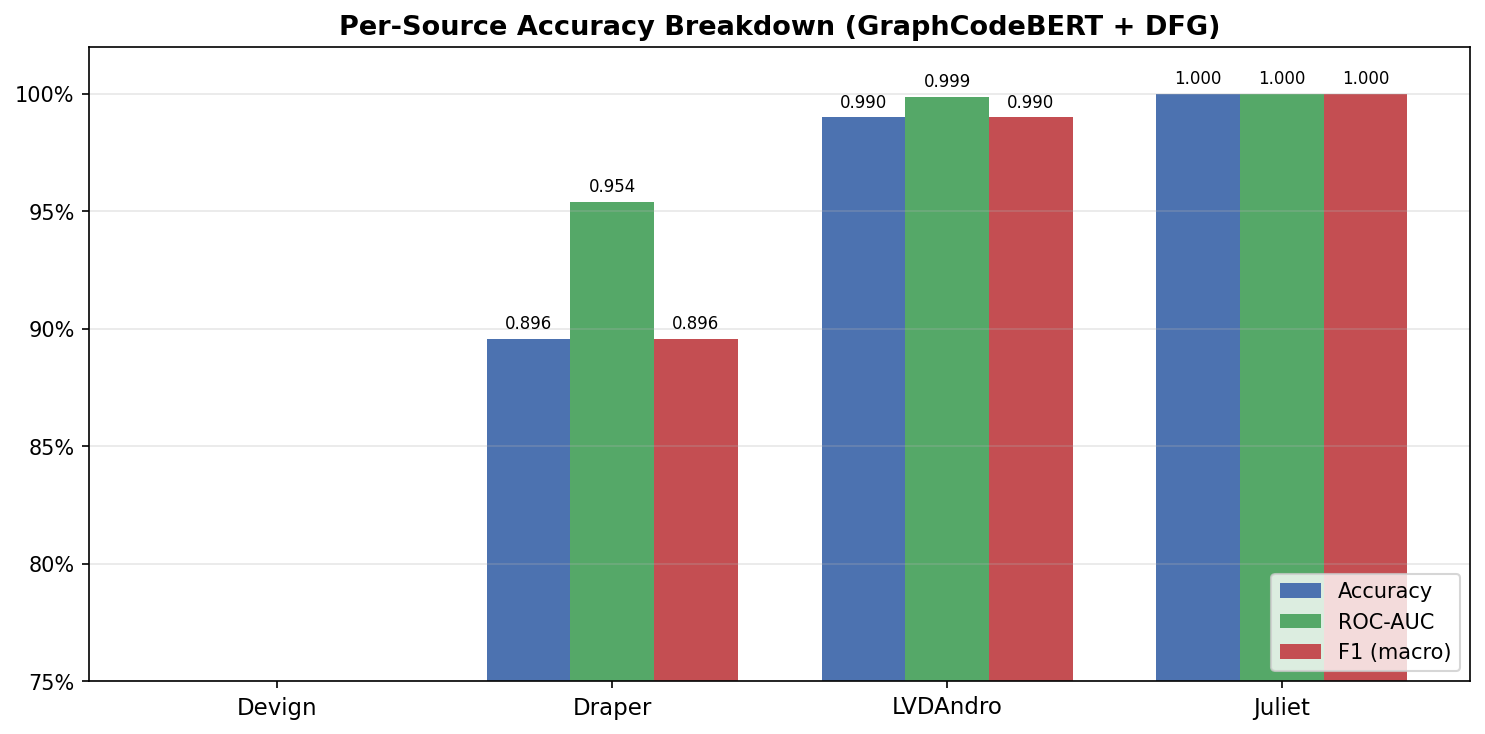
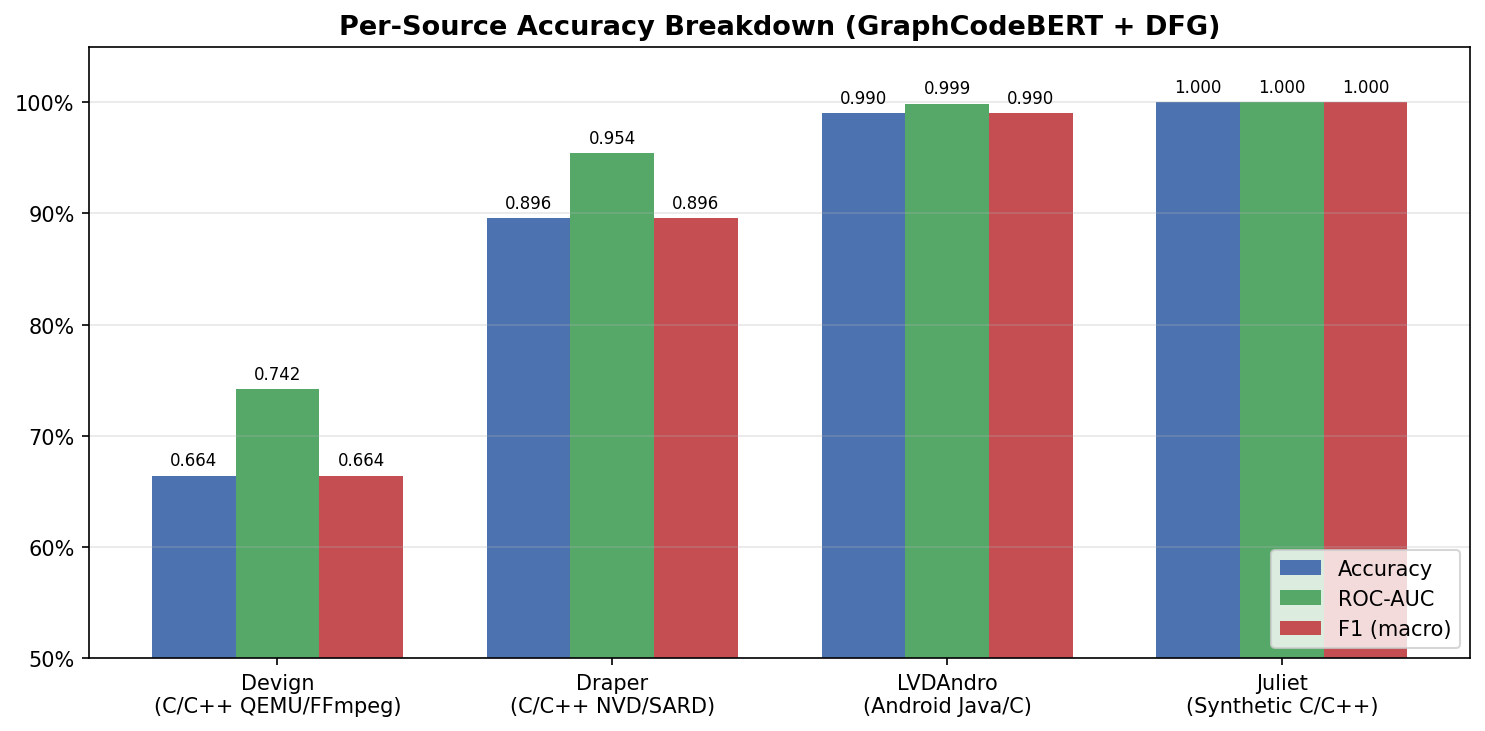
docs: Magnify Y-axis limits on Test 5 and Test 6 bar charts for readability

diff --git a/replot_bars.py b/replot_bars.py
@@ -1,0 +1,80 @@
+import matplotlib.pyplot as plt
+import matplotlib.ticker as mticker
+import numpy as np
+import os
+
+os.makedirs('results', exist_ok=True)
+
+# ------------------------------------------------------------------
+# 1. Replot Test 5: Per-Source
+# ------------------------------------------------------------------
+sources = ['Devign', 'Draper', 'LVDAndro', 'Juliet']
+accs = [0.664274, 0.895670, 0.990083, 1.000000]
+aucs = [0.7417, 0.9541, 0.9988, 1.0000]
+f1s  = [0.6643, 0.8957, 0.9901, 1.0000]
+
+x = np.arange(len(sources))
+width = 0.25
+colors = ['#4C72B0', '#55A868', '#C44E52']
+
+fig, ax = plt.subplots(figsize=(10, 5))
+b1 = ax.bar(x - width, accs, width, label='Accuracy', color=colors[0])
+b2 = ax.bar(x,         aucs, width, label='ROC-AUC',  color=colors[1])
+b3 = ax.bar(x + width, f1s,  width, label='F1 (macro)',color=colors[2])
+
+for bar in [b1, b2, b3]:
+    for rect in bar:
+        h = rect.get_height()
+        ax.annotate(f'{h:.3f}',
+                    xy=(rect.get_x() + rect.get_width() / 2, h),
+                    xytext=(0, 3), textcoords='offset points',
+                    ha='center', va='bottom', fontsize=8)
+
+ax.set_xticks(x)
+ax.set_xticklabels(['Devign\n(C/C++ QEMU/FFmpeg)', 'Draper\n(C/C++ NVD/SARD)', 'LVDAndro\n(Android Java/C)', 'Juliet\n(Synthetic C/C++)'], fontsize=10)
+ax.set_ylim(0.50, 1.05) # Adjusted scale so Devign (0.66) is totally visible but differences are still clear
+ax.yaxis.set_major_formatter(mticker.PercentFormatter(xmax=1, decimals=0))
+ax.set_title('Per-Source Accuracy Breakdown (GraphCodeBERT + DFG)', fontsize=13, fontweight='bold')
+ax.legend(loc='lower right')
+ax.grid(axis='y', alpha=0.3)
+
+plt.tight_layout()
+plt.savefig('results/test5_per_source_bar.png', dpi=150, bbox_inches='tight')
+plt.close()
+
+# ------------------------------------------------------------------
+# 2. Replot Test 6: Baseline Comparison
+# ------------------------------------------------------------------
+models = ['LR + TF-IDF', 'MLP + TF-IDF', 'GraphCodeBERT + DFG']
+accs_6 = [0.842719, 0.855321, 0.918200]
+aucs_6 = [0.9275, 0.9398, 0.9798]
+f1s_6  = [0.8405, 0.8554, 0.9182]
+
+x_6 = np.arange(len(models))
+
+fig2, ax2 = plt.subplots(figsize=(8, 5))
+b1_6 = ax2.bar(x_6 - width, accs_6, width, label='Accuracy', color=colors[0])
+b2_6 = ax2.bar(x_6,         aucs_6, width, label='ROC-AUC',  color=colors[1])
+b3_6 = ax2.bar(x_6 + width, f1s_6,  width, label='F1 (macro)',color=colors[2])
+
+for bar in [b1_6, b2_6, b3_6]:
+    for rect in bar:
+        h = rect.get_height()
+        ax2.annotate(f'{h:.3f}',
+                    xy=(rect.get_x() + rect.get_width() / 2, h),
+                    xytext=(0, 3), textcoords='offset points',
+                    ha='center', va='bottom', fontsize=9)
+
+ax2.set_xticks(x_6)
+ax2.set_xticklabels(models, fontsize=11)
+ax2.set_ylim(0.70, 1.02) # Adjusted scale to strongly magnify differences among 0.84-0.97
+ax2.yaxis.set_major_formatter(mticker.PercentFormatter(xmax=1, decimals=0))
+ax2.set_title('Baseline Model Comparison (Lower Bound Test)', fontsize=13, fontweight='bold')
+ax2.legend(loc='lower right')
+ax2.grid(axis='y', alpha=0.3)
+
+plt.tight_layout()
+plt.savefig('results/test6_baseline_bar.png', dpi=150, bbox_inches='tight')
+plt.close()
+
+print("Recreated both bar charts with magnified and corrected scaling.")
